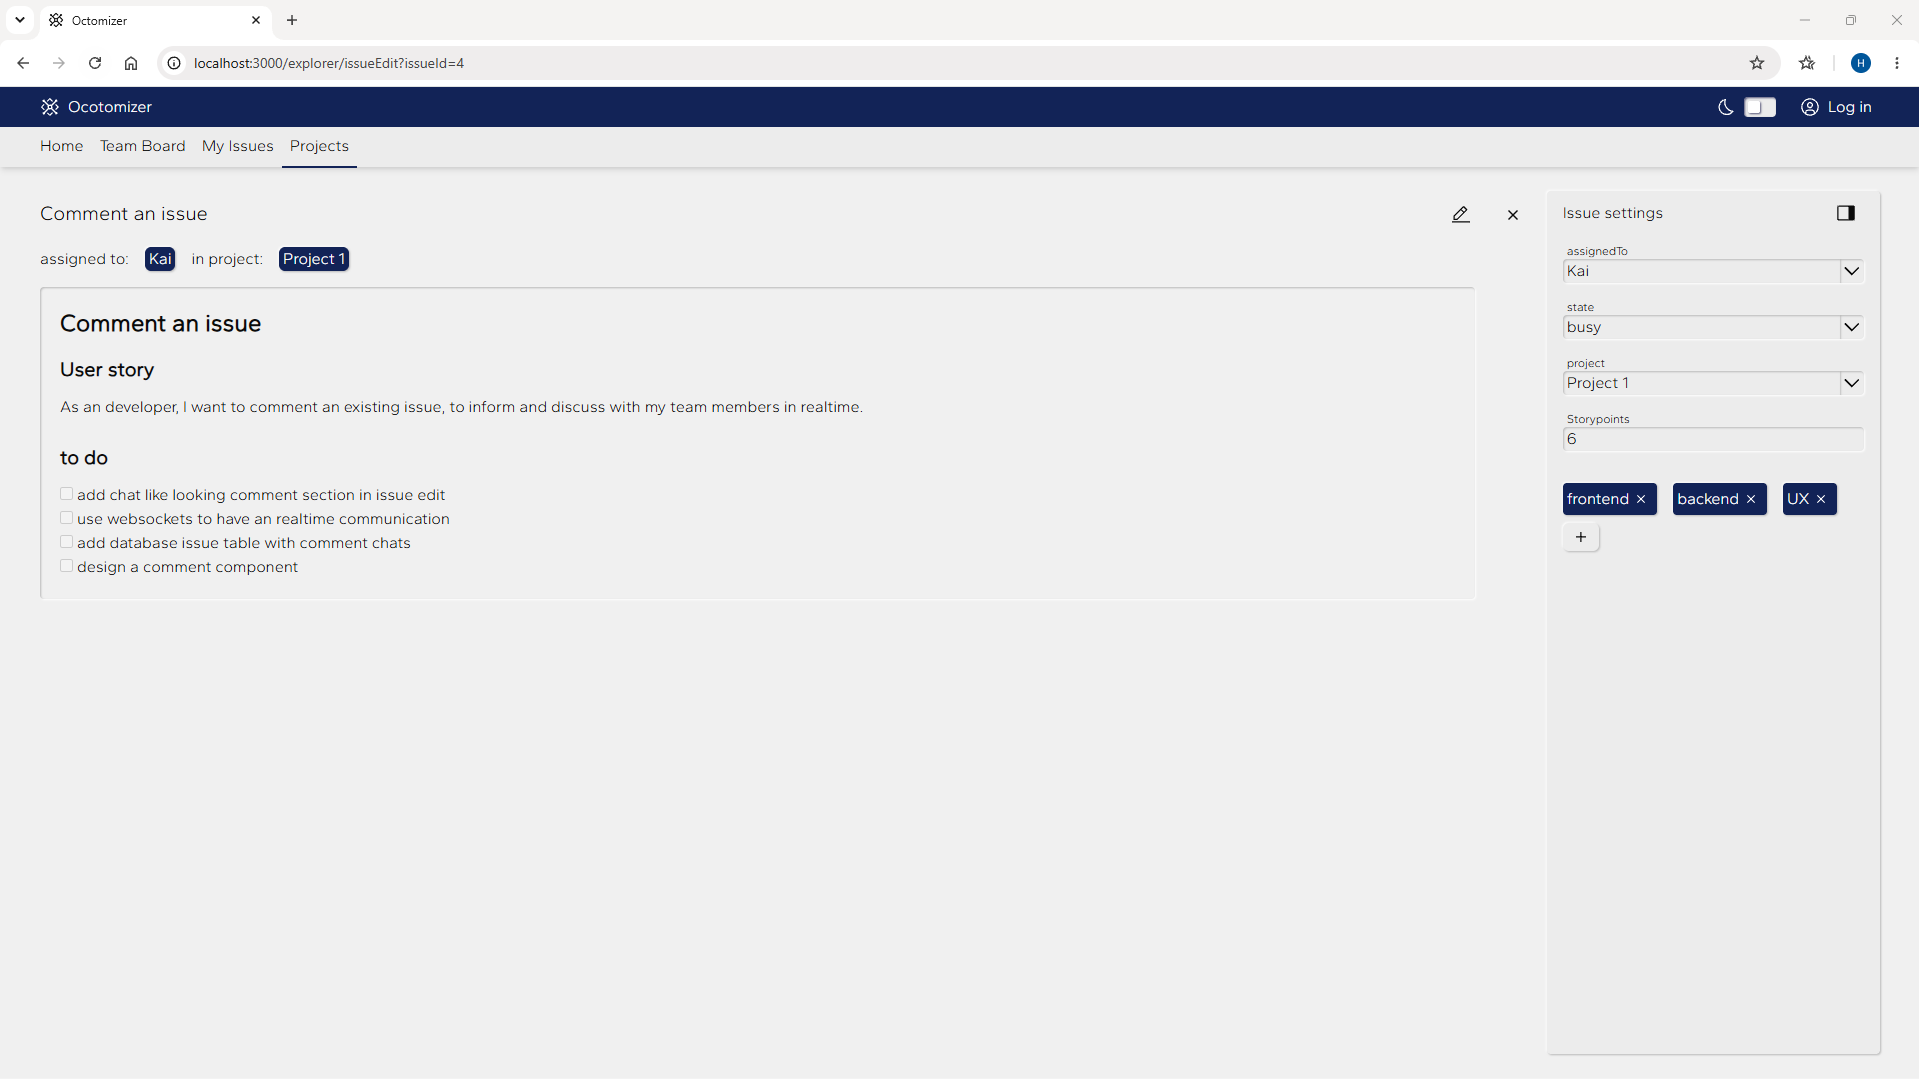
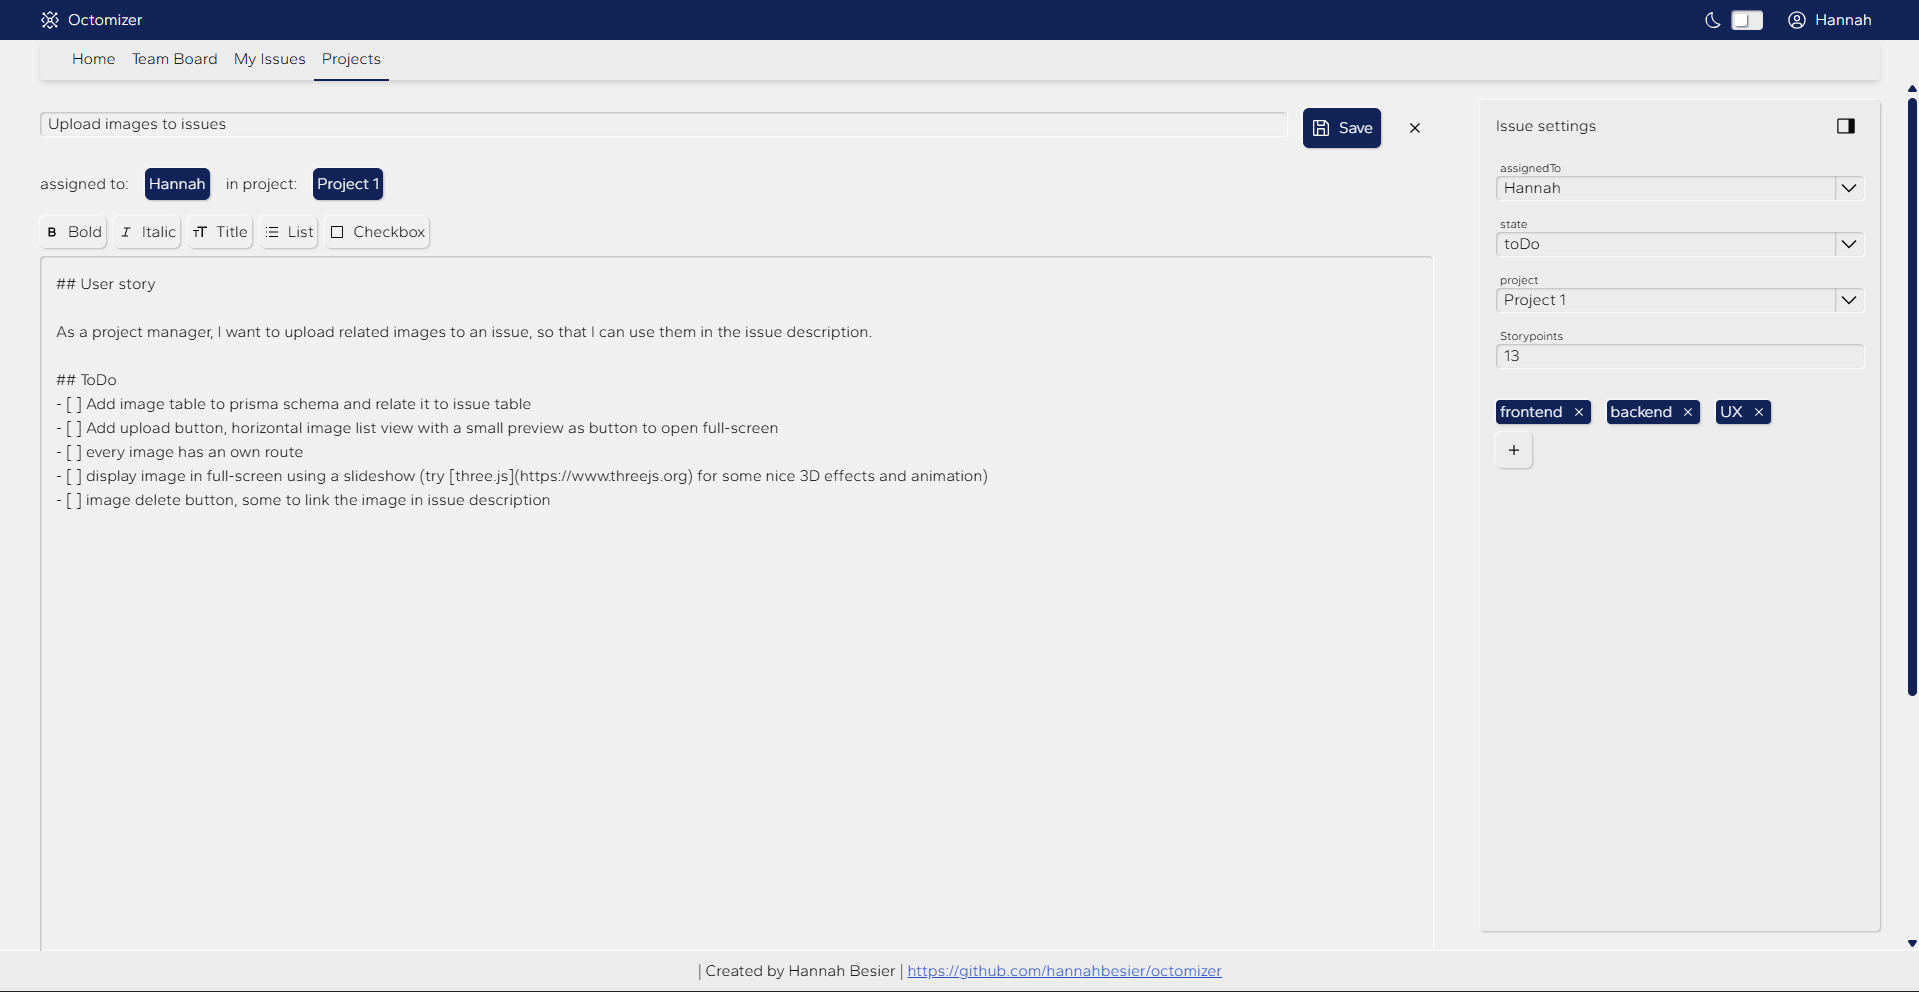
new: home slideshow

Changed region(s): [[0.0, 0.0, 1.0, 0.7188], [0.3689, 0.9688, 0.6456, 1.0]]

diff --git a/src/app/page.tsx b/src/app/page.tsx
@@ -9,16 +9,21 @@ import {
 import { IssueTable } from "@/store/types";
 import { Launch } from "@carbon/icons-react";
 import { useRouter } from "next/navigation";
-import Image from "next/image";
 import { useSelector } from "react-redux";
-import { user } from "@/store/store";
+import { isDark, user } from "@/store/store";
+import Slideshow from "@/components/Slideshow";
+import useMobile from "@/lib/useMobile";
+import { useState } from "react";
 export default function Home() {
-  const currentUser: { id: number | undefined, name: string | undefined } = useSelector(user);
+  const currentUser = useSelector(user);
   const { data: issues, isLoading: issueIsLoading } = useGetIssuesQuery<
     Record<string, IssueTable[]>
   >(currentUser?.id ?? 0);
+  const [index, setIndex] = useState(0);
   const { data: users, isLoading: userIsLoading } = useGetUsersQuery();
   const router = useRouter();
+  const mobile = useMobile();
+  const isDarkSelector = useSelector(isDark);
   if (!currentUser.id) return (
     <div className="flex flex-col gap-10 sm:gap-15 h-full w-full items-center sm:justify-center ">
       <div className="flex flex-col md:flex-row md:items-end w-fit md:w-200 pb-0 p-10"><h1 className="flex-1 text-2xl sm:text-6xl text-primaryLight">Octomizer</h1><p className="text-md sm:text-lg">| on mobile and desktop, in light and dark mode</p></div>
@@ -27,60 +32,29 @@ export default function Home() {
         <p>{"organize |"}</p>
         <p>{"document |"}</p>
         <p className="text-primaryLight">{"your dev projects"}</p>
-
       </div>
-
       <Button size="large" primary={true} label="Getting started" onClick={() => router.push("./login")} />
       <div className="pl-10 pr-10 sm:pl-10 sm:pr-10 md:pl-20 md:pr-20 lg:pl-20 lg:pr-20 xl:pl-40 xl:pr-40 flex flex-col gap-5 sm:grid sm:grid-cols-2 lg:grid-cols-4 sm:gap-10">
-        <Card title="Issue Edit"><p>Edit and describe issues via Markdown, setting out who is assigned to them, which project they are part of, and their defined story points and tags.</p></Card>
-        <Card title="Team Board"><p>View the current issues sorted by state in your daily scrum ('To-do', 'Busy' and 'Done') and drag and drop issues to change their state.</p></Card>
-        <Card title="My Issues"><p>Users' specific views: current to-do and busy issues, team members.</p></Card>
-        <Card title="Projects"><p>Use an explorer to organize and document your projects, features and issues in a tree-hierarchy structure.</p></Card>
+        <button className="cursor-pointer flex hover:bg-hover" onClick={() => setIndex(0)}>
+          <Card active={index === 0} title="Issue Edit"><p>Edit and describe issues via Markdown, setting out who is assigned to them, which project they are part of, and their defined story points and tags.</p></Card>
+        </button>
+        <button className="cursor-pointer flex hover:bg-hover" onClick={() => setIndex(1)}>
+          <Card active={index === 1} title="Team Board"><p>View the current issues sorted by state in your daily scrum ('To-do', 'Busy' and 'Done') and drag and drop issues to change their state.</p></Card>
+        </button>
+        <button className="cursor-pointer flex hover:bg-hover" onClick={() => setIndex(2)}>
+          <Card active={index === 2} title="My Issues"><p>Users' specific views: current to-do and busy issues, team members.</p></Card>
+        </button>
+        <button className="cursor-pointer flex hover:bg-hover" onClick={() => setIndex(3)}>
+          <Card active={index === 3} title="Projects"><p>Use an explorer to organize and document your projects, features and issues in a tree-hierarchy structure.</p></Card>
+        </button>
       </div>
-      <div className=" shadow dark:shadow-darkmode max-w-[60%] max-h-[60%]">
-
-        <Image
-          src="/img/IssueEditWhite.png"
-          alt="Issue Edit Example"
-          width={1919}
-          height={1079}
-          fetchPriority="high"
-          loading="eager"
-          sizes="(min-width: 640px) 760px"
-          className="hidden sm:block dark:sm:hidden h-full w-full"
-        />
-        <Image
-          src="/img/IssueEditMobile.png"
-          alt="Issue Edit Example"
-          width={391}
-          height={852}
-          fetchPriority="high"
-          loading="eager"
-          sizes="(min-width: 640px) 760px"
-          className="block sm:hidden dark:hidden h-full w-full"
-        />
-        <Image
-          src="/img/IssueBoardBlackMobile.png"
-          alt="Issue Edit Example"
-          width={393}
-          height={850}
-          fetchPriority="high"
-          loading="eager"
-          sizes="(min-width: 640px) 760px"
-          className="hidden dark:block dark:sm:hidden h-full w-full"
-        />
-        <Image
-          src="/img/IssueBoardBlack.png"
-          alt="Issue Edit Example"
-          width={1919}
-          height={1079}
-          fetchPriority="high"
-          loading="eager"
-          sizes="(min-width: 640px) 760px"
-          className="hidden dark:hidden dark:sm:block h-full w-full"
-        />
-
-      </div>
+      {isDarkSelector ?
+        (mobile === true) ?
+          <Slideshow index={index} setIndex={setIndex} images={["/img/MIssueEditBlack.png", "/img/MTeamboardBlack.png", "/img/MHomeBlack.png", "/img/MProjectsBlack.png"]} />
+          : <Slideshow index={index} setIndex={setIndex} images={["/img/IssueEditBlack.png", "/img/TeamboardBlack.png", "/img/HomeBlack.png", "/img/ProjectsBlack.png"]} />
+        : (mobile === true) ?
+          <Slideshow index={index} setIndex={setIndex} images={["/img/MIssueEditWhite.png", "/img/MTeamboardWhite.png", "/img/MHomeWhite.png", "/img/MProjectsWhite.png"]} />
+          : <Slideshow index={index} setIndex={setIndex} images={["/img/IssueEditWhite.png", "/img/TeamboardWhite.png", "/img/HomeWhite.png", "/img/ProjectsWhite.png"]} />}
     </div>);
   if (issueIsLoading || userIsLoading) return <Skeleton />;
   return (

diff --git a/src/store/store.tsx b/src/store/store.tsx
@@ -1,4 +1,4 @@
-import { createSlice, configureStore, PayloadAction } from "@reduxjs/toolkit";
+import { createSlice, configureStore, PayloadAction, createSelector } from "@reduxjs/toolkit";
 import exampleStore from "./exampleStore";
 import { api } from "./api/api";
 import { User } from "./types";
@@ -20,17 +20,27 @@ const worldSlice = createSlice({
     setUser: (state, action: PayloadAction<User>) => {
       state.user = action.payload;
     },
+    setDarkTheme: (state, action: PayloadAction<boolean>) => {
+      state.isDark = action.payload;
+    }
   },
 });
 
-export const { addCurrentExpanded, setExplorerContent, setUser } =
+export const { addCurrentExpanded, setExplorerContent, setUser, setDarkTheme } =
   worldSlice.actions;
 
 export const currentExpanded = (state: RootState) =>
   state.worldSlice.currentExpanded;
 export const explorerContent = (state: RootState) =>
   state.worldSlice.explorerContent;
-export const user = (state: RootState) => {return {id: state.worldSlice.user?.id, name: state.worldSlice.user?.name}};
+const selectUser = (state: RootState) => state.worldSlice.user;
+export const user = createSelector(
+  [selectUser],
+  (user) => ({
+    id: user?.id,
+    name: user?.name,
+  }));
+export const isDark = (state: RootState) => state.worldSlice.isDark;
 export const store = configureStore({
   reducer: {
     worldSlice: worldSlice.reducer,

diff --git a/src/components/Card.tsx b/src/components/Card.tsx
@@ -1,13 +1,13 @@
 import { ReactNode } from "react";
 
-export default function Card({ title, children }: { title: string, children: ReactNode }) {
+export default function Card({ title, active, children }: { title: string, active?: boolean, children: ReactNode }) {
   return (
     <div className="flex flex-col items-center gap-8 min-h-40 p-2 shadow dark:shadow-darkmode rounded-md min-w-50">
-      <h2 className="flex text-md sm:text-lg w-full p-2 justify-center bg-secondary rounded-t-sm shadow-inset dark:shadow-insetDarkmode">{title}</h2>
+      <h2 data-active={active} className="flex text-md sm:text-lg w-full p-2 justify-center data-[active=true]:bg-primary data-[active=true]:text-white bg-secondary rounded-t-sm shadow-inset dark:shadow-insetDarkmode">{title}</h2>
       <div className="pl-4 pr-4 pb-4 h-full ">{children}</div>
       <div className="flex justify-between w-full">
-        <div className="h-2 w-2 shadow-inset dark:shadow-insetDarkmode rounded-xs bg-secondary"/>
-        <div className="h-2 w-2 shadow-inset dark:shadow-insetDarkmode rounded-xs bg-secondary"/>
+        <div className="h-2 w-2 shadow-inset dark:shadow-insetDarkmode rounded-xs bg-secondary" />
+        <div className="h-2 w-2 shadow-inset dark:shadow-insetDarkmode rounded-xs bg-secondary" />
       </div>
     </div>
   );

diff --git a/src/components/Slideshow.tsx b/src/components/Slideshow.tsx
@@ -1,0 +1,24 @@
+import Image from "next/image";
+import { Dispatch, SetStateAction, useEffect, useState } from "react";
+export default function Slideshow({ images, index, setIndex }: { images: string[], index: number, setIndex: Dispatch<SetStateAction<number>> }) {
+    useEffect(() => {
+        const timer = setTimeout(() => { if (index !== images.length - 1) { setIndex(index + 1) } else { setIndex(0) } }, 8000);
+        return () => clearTimeout(timer);
+    }, [index]);
+    return (
+        <div className="relative rounded-sm shadow dark:shadow-darkmode w-[80%] aspect-[9/16] sm:aspect-[15/8] overflow-hidden">
+            <div key={index} className="h-1 w-full bg-primaryLight animate-slider"></div>
+            {images.map((img, idx) => (
+                <img
+                    key={img}
+                    src={img}
+                    alt="Issue Edit Example"
+                    fetchPriority="high"
+                    loading="eager"
+                    data-active={idx === index}
+                    className="absolute h-full w-full object-cover transition-transform duration-500 data-[active=true]:translate-x-0 translate-x-full "
+                />
+            ))}
+        </div>
+    )
+}

diff --git a/src/app/MainHeader.tsx b/src/app/MainHeader.tsx
@@ -8,12 +8,13 @@ import Button from "@/components/Button";
 import { useRouter } from "next/navigation";
 import { useEffect, useState } from "react";
 import Cookies from "js-cookie";
-import { useSelector } from "react-redux";
-import { user } from "@/store/store";
+import { useDispatch, useSelector } from "react-redux";
+import { user, setDarkTheme } from "@/store/store";
 
 export default function MainHeader() {
-  const currentUser: {id: number | undefined, name: string | undefined} = useSelector(user);
+  const currentUser: { id: number | undefined, name: string | undefined } = useSelector(user);
   const [dark, setDark] = useState(false);
+  const dispatch = useDispatch();
   useEffect(() => {
     const isDark = Cookies.get("theme") === "true";
     // eslint-disable-next-line react-hooks/set-state-in-effect
@@ -39,6 +40,7 @@ export default function MainHeader() {
               secure: true,
               sameSite: "strict",
             });
+            dispatch(setDarkTheme(e.target.checked));
           }}
         />
       </div>

diff --git a/src/styles/globals.css b/src/styles/globals.css
@@ -1,4 +1,5 @@
 @import "tailwindcss";
+
 :root {
   --color-background: #f0f0f0;
   --color-foreground: #0a0a0a;
@@ -7,7 +8,7 @@
   --color-secondary: #ececec;
   --color-hover: #e0e0e0;
   --color-darkShadow: #000008;
-  --gantari: 
+  --gantari:
 }
 
 .dark {
@@ -32,11 +33,27 @@
   --shadow-inset: inset 1px 1px 2px #b8b8b8, 1px 1px 2px #ffffff;
   --shadow-insetDarkmode: inset 1px 1px 2px #000008, 1px 1px 2px #333338;
   --animate-skeleton: skeleton 2s linear infinite;
+  --animate-slider: slider 8s linear infinite;
+
   @keyframes skeleton {
-    0% { background-position: 200% 0;}
-    100% { background-position: -200% 0;}
+    0% {
+      background-position: 200% 0;
+    }
+
+    100% {
+      background-position: -200% 0;
+    }
+  }
+
+  @keyframes slider {
+    0% {
+      transform: translateX(-100%);
+    }
+
+    100% {
+      transform: translateX(0%);
+    }
   }
 }
 
 @custom-variant dark (&:where(.dark, .dark *));
-

diff --git a/src/stories/Slideshow.stories.tsx b/src/stories/Slideshow.stories.tsx
@@ -1,0 +1,17 @@
+import type { Meta, StoryObj } from '@storybook/nextjs-vite';
+import Slideshow from '../components/Slideshow';
+
+const meta = {
+  title: 'Slideshow',
+  component: Slideshow,
+  tags: ['autodocs'],
+} satisfies Meta<typeof Slideshow>;
+export default meta;
+type Story = StoryObj<typeof meta>;
+export const Primary: Story = {
+  args: {
+    images: ["/img/IssueEditWhite.png", "/img/IssueBoardBlack.png"],
+    setIndex: () => { },
+    index: 0,
+  },
+};

diff --git a/src/lib/useMobile.ts b/src/lib/useMobile.ts
@@ -6,7 +6,7 @@ export default function useMobile() {
   const [mobile, setMobile] = useState(false);
 
   useEffect(() => {
-    const mediaQuery = window.matchMedia('(max-width: 600px)');
+    const mediaQuery = window.matchMedia('(max-width: 640px)');
 
     const update = () => {
       setMobile(mediaQuery.matches);

diff --git a/src/store/types.ts b/src/store/types.ts
@@ -3,6 +3,7 @@ export type State = {
   explorerContent: number;
   isAuth: boolean;
   user: User;
+  isDark: boolean;
 };
 export type User = {
     id: number;

diff --git a/src/store/exampleStore.ts b/src/store/exampleStore.ts
@@ -6,6 +6,7 @@ export default function exampleStore(): State {
     currentExpanded: [],
     isAuth: false,
     user: undefined,
+    isDark: false,
   }
 
 }
